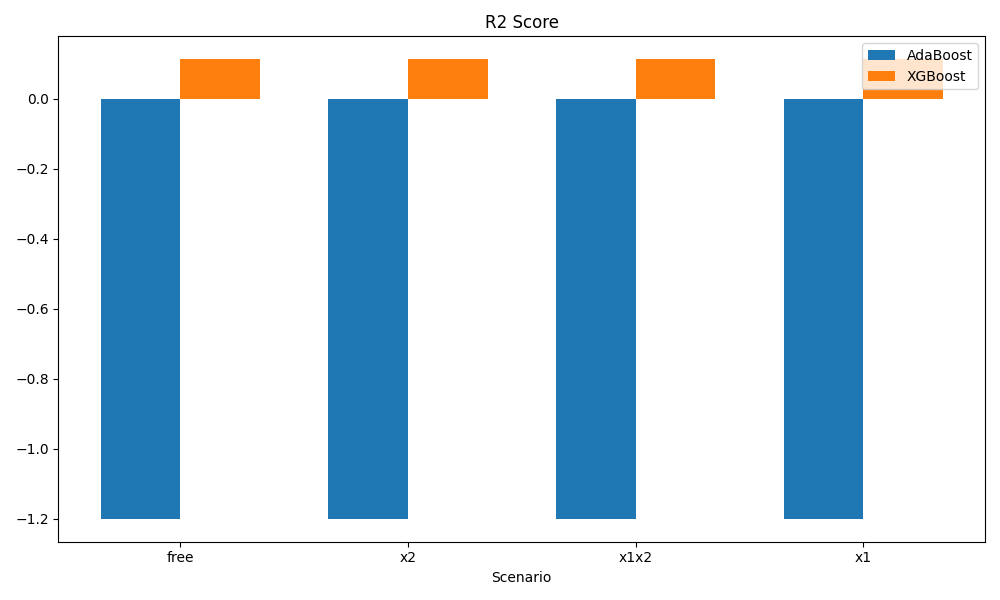
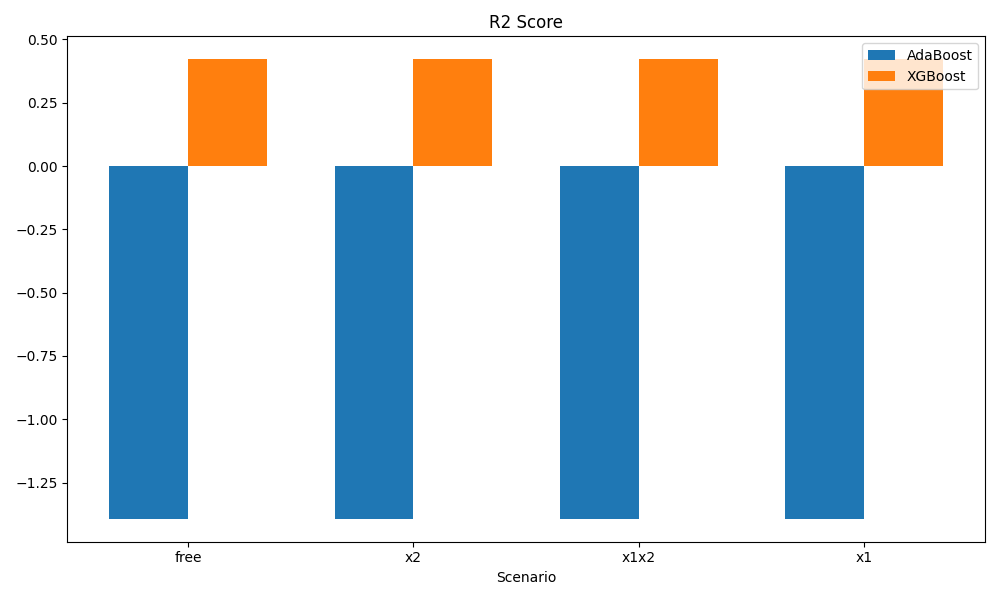
finish 3: finish finish finish

diff --git a/main.py b/main.py
@@ -333,10 +333,10 @@ class main:
                 "scenario": "free",
                 "n_estimator": [50, 100, 200],
                 "learning_rate": [0.1, 0.01, 0.05],
-                "max_depth": [3, 5, 7],
+                "max_depth": [5, 6, 7],
                 "loss": ["linear", "square", "exponential"],
-                "subsample": [0.7, 0.8, 0.9],
-                "colsample_bytree": [0.7, 0.8, 0.6],
+                "subsample": [0.7, 0.8, 1.0],
+                "colsample_bytree": [0.7, 0.8, 1.0],
                 "gamma": [0, 0.2, 0.3],
                 "reg_alpha": [0.0, 0.1, 0.5],
                 "reg_lambda": [1.0, 5.0, 10.0],
@@ -345,10 +345,10 @@ class main:
                 "scenario": "x1",
                 "n_estimator": [50, 100, 200],
                 "learning_rate": [0.1, 0.01, 0.05],
-                "max_depth": [3, 5, 7],
+                "max_depth": [5, 6, 7],
                 "loss": ["linear", "square", "exponential"],
-                "subsample": [0.7, 0.8, 0.9],
-                "colsample_bytree": [0.7, 0.8, 0.6],
+                "subsample": [0.7, 0.8, 1.0],
+                "colsample_bytree": [0.7, 0.8, 1.0],
                 "gamma": [0, 0.2, 0.3],
                 "reg_alpha": [0.0, 0.1, 0.5],
                 "reg_lambda": [1.0, 5.0, 10.0],
@@ -357,10 +357,10 @@ class main:
                 "scenario": "x2",
                 "n_estimator": [50, 100, 200],
                 "learning_rate": [0.1, 0.01, 0.05],
-                "max_depth": [3, 5, 7],
+                "max_depth": [5, 6, 7],
                 "loss": ["linear", "square", "exponential"],
-                "subsample": [0.7, 0.8, 0.9],
-                "colsample_bytree": [0.7, 0.8, 0.6],
+                "subsample": [0.7, 0.8, 1.0],
+                "colsample_bytree": [0.7, 0.8, 1.0],
                 "gamma": [0, 0.2, 0.3],
                 "reg_alpha": [0.0, 0.1, 0.5],
                 "reg_lambda": [1.0, 5.0, 10.0],
@@ -369,10 +369,10 @@ class main:
                 "scenario": "x1x2",
                 "n_estimator": [50, 100, 200],
                 "learning_rate": [0.1, 0.01, 0.05],
-                "max_depth": [3, 5, 7],
+                "max_depth": [5, 6, 7],
                 "loss": ["linear", "square", "exponential"],
-                "subsample": [0.7, 0.8, 0.9],
-                "colsample_bytree": [0.7, 0.8, 0.6],
+                "subsample": [0.7, 0.8, 1.0],
+                "colsample_bytree": [0.7, 0.8, 1.0],
                 "gamma": [0, 0.2, 0.3],
                 "reg_alpha": [0.0, 0.1, 0.5],
                 "reg_lambda": [1.0, 5.0, 10.0],

diff --git a/xg_boost.py b/xg_boost.py
@@ -42,7 +42,6 @@ class XGBoost(boost_interface.BoostInterface):
             reg_alpha=self.reg_alpha,  # L1
             reg_lambda=self.reg_lambda,  # L2
             random_state=self.random_state,
-            tree_method="hist",
         )
 
         X = self.get_X(self.data.get_x_train())
@@ -92,14 +91,13 @@ class XGBoost(boost_interface.BoostInterface):
             reg_alpha=params["reg_alpha"][0],  # L1
             reg_lambda=params["reg_lambda"][0],  # L2
             random_state=42,
-            tree_method="hist",
         )
 
         model_tune = GridSearchCV(
             estimator=self.model,
             param_grid=param_grid,
             scoring="neg_root_mean_squared_error",
-            cv=5,
+            cv=3,
             verbose=1,
             n_jobs=-1,
         )
